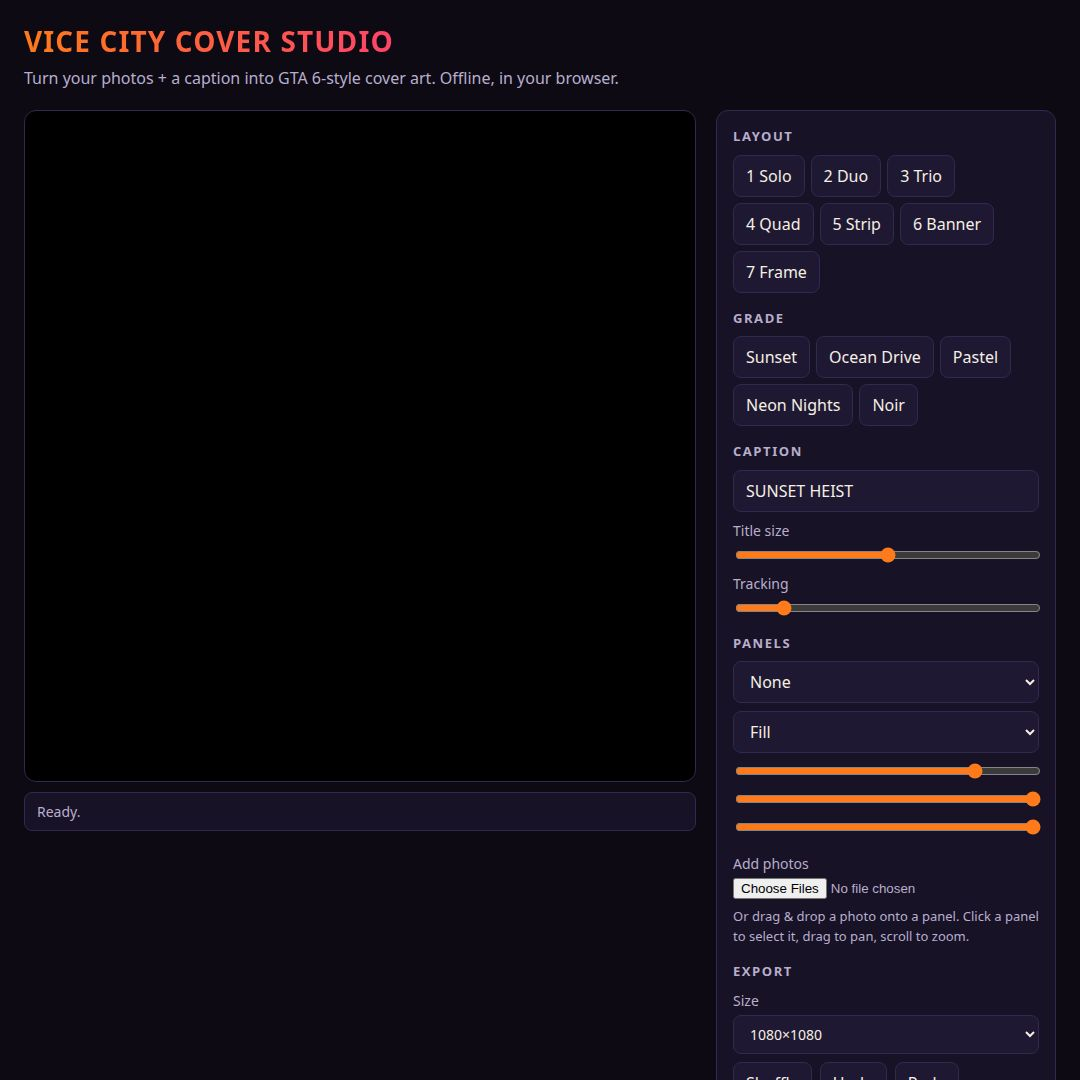
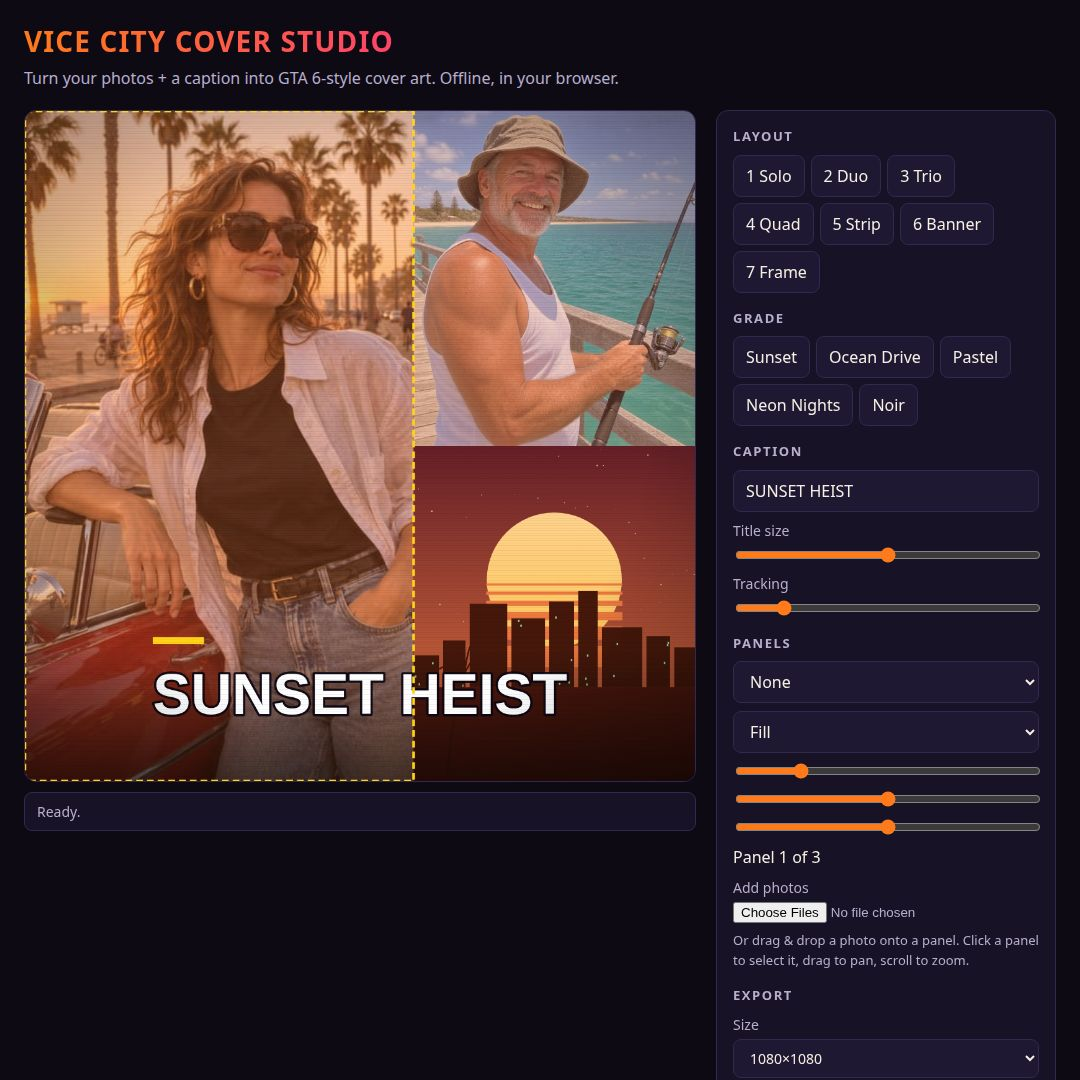
Fix SCENES TDZ (black canvas) + re-take screenshots + TEST-REPORT
- Move const SCENES above init(): applyScene() ran before the
  declaration, throwing ReferenceError on every ?shot= page and killing
  the first render (all 4 screenshots were black, 3 byte-identical).
- Re-took all 4 screenshots (all distinct now, each <=256 KiB).
- Testing driver scratch-r6/driver.mjs: 88/88 PASS (scenes, __vc hook,
  undo/redo+coalescing, export all sizes, determinism, validate-only).
- Determinism: 2 builds diff-identical, dossier sha256 163676ed...

diff --git a/app/src/main.js b/app/src/main.js
@@ -467,6 +467,17 @@ function syncUI() {
   if (redoBtn) redoBtn.disabled = redoStack.length === 0;
 }
 
+const SCENES = {
+  trio: { layout: 'Trio', grade: 'Sunset', caption: 'SUNSET HEIST' },
+  editor: { layout: 'Trio', grade: 'Sunset', caption: 'SUNSET HEIST', size: { w: 1280, h: 720 } },
+  frame: { layout: 'Frame', grade: 'Ocean Drive', caption: 'OCEAN DRIVE' },
+  banner: { layout: 'Banner', grade: 'Pastel', caption: 'PASTEL PALMS' },
+  quad: { layout: 'Quad', grade: 'Neon Nights', caption: 'NEON SQUAD' },
+  solo: { layout: 'Solo', grade: 'Noir', caption: 'LONE WOLF' },
+  duo: { layout: 'Duo', grade: 'Ocean Drive', caption: 'DOUBLE TROUBLE' },
+  strip: { layout: 'Strip', grade: 'Pastel', caption: 'PALM STRIP' },
+};
+
 // Init: bangun kontrol sekali, lalu render saat DOM siap.
 if (typeof document !== 'undefined') {
   const init = () => {
@@ -709,16 +720,8 @@ function wireKeyboard() {
 }
 
 // Scene dari ?shot=: layout + grade + caption (+ ukuran khusus editor).
-const SCENES = {
-  trio: { layout: 'Trio', grade: 'Sunset', caption: 'SUNSET HEIST' },
-  editor: { layout: 'Trio', grade: 'Sunset', caption: 'SUNSET HEIST', size: { w: 1280, h: 720 } },
-  frame: { layout: 'Frame', grade: 'Ocean Drive', caption: 'OCEAN DRIVE' },
-  banner: { layout: 'Banner', grade: 'Pastel', caption: 'PASTEL PALMS' },
-  quad: { layout: 'Quad', grade: 'Neon Nights', caption: 'NEON SQUAD' },
-  solo: { layout: 'Solo', grade: 'Noir', caption: 'LONE WOLF' },
-  duo: { layout: 'Duo', grade: 'Ocean Drive', caption: 'DOUBLE TROUBLE' },
-  strip: { layout: 'Strip', grade: 'Pastel', caption: 'PALM STRIP' },
-};
+// Ditaruh di ATAS, sebelum init() — applyScene() memakainya saat boot;
+// const di bawah init kena TDZ (ReferenceError) dan mematikan render pertama.
 
 function applyScene() {
   if (typeof window === 'undefined') return;

diff --git a/TEST-REPORT.md b/TEST-REPORT.md
@@ -1,0 +1,63 @@
+# TEST-REPORT — Vice City Cover Studio (gta6-cover-art-01 R6)
+
+## Bug yang diperbaiki (sesi 7)
+
+**SCENES TDZ — canvas hitam di semua screenshot.**
+`applyScene()` dipanggil dari `init()` (baris ~474) sebelum deklarasi `const SCENES`
+(baris ~712) dieksekusi, sehingga `?shot=...` melempar
+`Uncaught ReferenceError: Cannot access 'SCENES' before initialization` dan
+mematikan init + render pertama. Tanpa `?shot=` tidak kena (short-circuit),
+makanya `node --check` lolos.
+**Fix:** deklarasi `const SCENES` dipindah ke atas file (baris 470, sebelum blok
+init). Tidak ada perubahan perilaku lain.
+**Verifikasi fix:** serve + Chrome headless — `?shot=trio` dan `?shot=frame`:
+0 console error, canvas berisi (1.071 / 1.098 warna berbeda, blackFrac 0),
+caption + layout sesuai scene.
+
+## Screenshot (re-take setelah fix)
+
+| File | Ukuran | Dimensi |
+| --- | --- | --- |
+| 1-trio.jpg | 133.675 B (131 KiB) | 1080x1080 |
+| 2-editor.jpg | 131.686 B (129 KiB) | 1280x1000 |
+| 3-frame.jpg | 136.562 B (133 KiB) | 1080x1080 |
+| 4-banner.jpg | 132.962 B (130 KiB) | 1080x1080 |
+
+Semua ≤256 KiB; keempat hash sha256 BERBEDA (sebelum fix, 3 file byte-identik
+karena canvas hitam).
+
+## Testing driver (`scratch-r6/driver.mjs`, CDP + Chrome headless)
+
+**88/88 PASS**, 0 gagal. Per kelompok:
+
+- (a) Scene — 9 halaman (default + 8 `?shot=`): canvas tidak hitam,
+  layout + caption sesuai scene, 0 console error. **36/36**
+- (b) Hook `__vc` — `version='r6'`, `state` object, 19 fungsi ada dan
+  callable; semua setter mengubah state dengan benar (layout, grade,
+  caption, titleSize 1.2, tracking 5, panel aktif, filter Mono, fit Fit,
+  zoom 1.5, pan 10/-5, shuffle, setSize 1080x1350, render, applyState,
+  exportCover PNG blob > 0). **23/23**
+- (c) Undo/redo + coalescing — caption undo/redo pulih; 2x `setTitleSize`
+  cepat = 1 langkah undo (kembali ke baseline), redo = 0.9. **4/4**
+- (d) exportCover — PNG + JPEG q0.9 untuk semua 4 SIZES, blob > 0. **8/8**
+- (e) Determinisme — render 2x state sama → byte PNG identik (hash FNV-1a
+  sama). **1/1**
+- exportAll — resolve 8 nama file, 8 file terunduh. **2/2**
+- (f) `node main.ts --validate-only` — exit 0. **1/1**
+- Sisa cek: keberadaan hook + state awal. **13/13**
+
+## Determinisme build
+
+- Build 2x (`MAKEFUN_OUTPUT_DIR` berbeda): `diff -r` IDENTIK.
+- Dossier hash sama di kedua build + fresh-tree build:
+  `sha256 163676ed7239443c984b80213fe8880ca166ed0920ce9cf38abcf6608b4e637e`
+- Dossier 744 KiB (≤1,5 MiB). Fresh-tree `validate-only` exit 0.
+
+## Perintah reproduce
+
+```sh
+node scratch-r6/verify-fix.mjs   # smoke test fix SCENES
+node scratch-r6/take-shots.mjs   # re-take 4 screenshot
+node scratch-r6/driver.mjs       # 88 cek (butuh serve + Chrome headless)
+node main.ts --validate-only     # exit 0
+```
